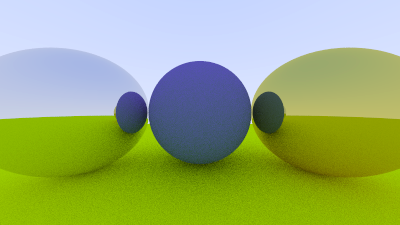
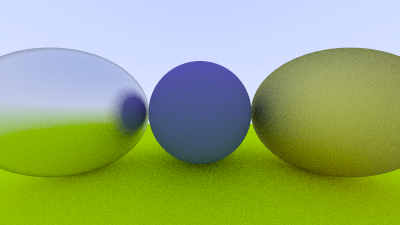
Implement fuzziness for metals

diff --git a/material/metal.go b/material/metal.go
@@ -8,16 +8,18 @@ import (
 
 type Metal struct {
 	albedo color.Color
+	fuzz   float64
 }
 
-func NewMetal(albedo color.Color) Metal {
-	return Metal{albedo}
+func NewMetal(albedo color.Color, fuzz float64) Metal {
+	return Metal{albedo, fuzz}
 }
 
 func (m *Metal) Scatter(in ray.Ray, rec *HitRecord) (isScatter bool, scattered ray.Ray, attenuation color.Color) {
-	isScatter = true
 	reflected := vector.Reflect(in.Direction(), rec.Normal)
+	reflected = reflected.UnitVector().AddVector(vector.RandomUnitVector().MultiplyFloat(m.fuzz))
 	scattered = ray.NewRay(rec.P, reflected)
 	attenuation = m.albedo
+	isScatter = scattered.Direction().Dot(rec.Normal) > 0
 	return
 }

diff --git a/main.go b/main.go
@@ -14,8 +14,8 @@ func main() {
 
 	materialGround := material.NewLambertian(color.NewColor(0.8, 0.8, 0.0))
 	materialCenter := material.NewLambertian(color.NewColor(0.1, 0.2, 0.5))
-	materialLeft := material.NewMetal(color.NewColor(0.8, 0.8, 0.8))
-	materialRight := material.NewMetal(color.NewColor(0.8, 0.6, 0.2))
+	materialLeft := material.NewMetal(color.NewColor(0.8, 0.8, 0.8), 0.3)
+	materialRight := material.NewMetal(color.NewColor(0.8, 0.6, 0.2), 1.0)
 
 	sphereGround := sphere.NewSphere(vector.NewVector3(0.0, -100.5, -1.0), 100.0, &materialGround)
 	sphereCenter := sphere.NewSphere(vector.NewVector3(0.0, 0.0, -1.2), 0.5, &materialCenter)
